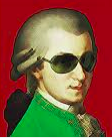
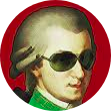
rebuilding site Σαβ 29 Μαΐ 2021 07:20:01 μμ EEST

diff --git a/layouts/partials/style.html b/layouts/partials/style.html
@@ -157,6 +157,9 @@
     .helptext {
       color: #aaa;
     }
+
+    circle {
+	style="border-radius: 50%;"
   }
 
 </style>

diff --git a/content/_index.md b/content/_index.md
@@ -6,7 +6,9 @@
 Hello, I'm **Nicolas**.
 I'm Writing and tinkering on a 💻Thinkpad T420 with Ubuntu linux. This is my [blog](/blog)
 
-{{< figure src="/images/bitmoji.png" class="center" height="64">}} 
+{{< figure src="/images/bitmoji.png" class="circle"  height="64">}} 
+
+<p><img class="circle" src="/images/bitmoji.png" /></p>
 
 If you want to say 👋 hello, you can contact me via
 
